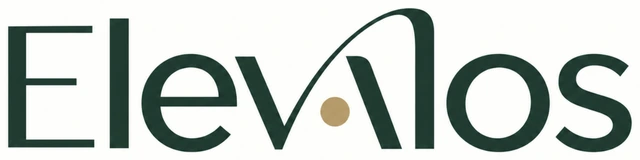
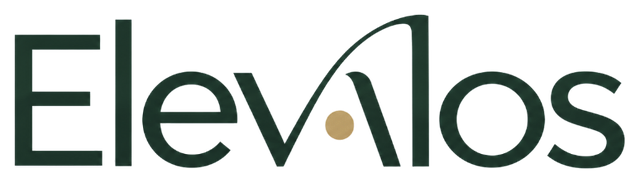
Use approved transparent ELEVALOS wordmark

Changed region(s): [[0.0, 0.0312, 0.75, 0.9688], [0.7188, 0.3125, 1.0, 0.9688], [0.25, 0.6562, 0.375, 0.6875]]

diff --git a/images/brand/elevalos-brand.css b/images/brand/elevalos-brand.css
@@ -9,8 +9,7 @@
   max-width: 100%;
   height: auto;
   object-fit: contain;
-  background: var(--elevalos-cream);
-  border-radius: 5px;
+  background: transparent;
 }
 .brand .elevalos-wordmark, .ops-brand .elevalos-wordmark {
   width: 176px;

diff --git a/scripts/build_brand_assets.py b/scripts/build_brand_assets.py
@@ -5,6 +5,35 @@ from pathlib import Path
 from PIL import Image
 
 
+def transparent_wordmark(image: Image.Image) -> Image.Image:
+    background = (254, 254, 251)
+    foregrounds = ((31, 59, 49), (185, 151, 88))
+    result = Image.new("RGBA", image.size)
+    pixels = []
+    for pixel in image.convert("RGB").getdata():
+        # Recover edge coverage against the original cream matte, not a white cutoff.
+        candidates = []
+        for foreground in foregrounds:
+            vector = tuple(bg - fg for bg, fg in zip(background, foreground))
+            alpha = max(0, min(1, sum((bg - value) * delta for bg, value, delta
+                                     in zip(background, pixel, vector))
+                               / sum(delta * delta for delta in vector)))
+            residual = sum((value - (bg - alpha * delta)) ** 2
+                           for value, bg, delta in zip(pixel, background, vector))
+            candidates.append((residual, alpha))
+        _, alpha = min(candidates)
+        if alpha < 0.045:
+            pixels.append((0, 0, 0, 0))
+        elif alpha > 0.96:
+            pixels.append((*pixel, 255))
+        else:
+            color = tuple(round(max(0, min(255, (value - (1 - alpha) * bg) / alpha)))
+                          for value, bg in zip(pixel, background))
+            pixels.append((*color, round(alpha * 255)))
+    result.putdata(pixels)
+    return result
+
+
 def build(source: Path, output: Path) -> None:
     output.mkdir(parents=True, exist_ok=True)
     wordmark = Image.open(source / "elevalos-wordmark-original.png").convert("RGB")
@@ -15,11 +44,12 @@ def build(source: Path, output: Path) -> None:
     wordmark = wordmark.crop((max(0, left - padding), max(0, top - padding),
                               min(wordmark.width, right + padding),
                               min(wordmark.height, bottom + padding)))
+    wordmark = transparent_wordmark(wordmark)
     for width in (320, 640):
         resized = wordmark.resize((width, round(width * wordmark.height / wordmark.width)),
                                   Image.Resampling.LANCZOS)
-        resized.quantize(colors=128).save(output / f"elevalos-wordmark-{width}.png", optimize=True)
-        resized.save(output / f"elevalos-wordmark-{width}.webp", quality=92, method=6)
+        resized.save(output / f"elevalos-wordmark-{width}.png", optimize=True)
+        resized.save(output / f"elevalos-wordmark-{width}.webp", lossless=True, method=6)
     anagram = Image.open(source / "elevalos-anagram-original.png").convert("RGB")
     mask = Image.eval(anagram.convert("L"), lambda value: 255 if value > 110 else 0)
     left, top, right, bottom = mask.getbbox()
@@ -35,7 +65,7 @@ def build(source: Path, output: Path) -> None:
         output / "favicon.ico", sizes=[(16, 16), (32, 32), (48, 48)])
     canvas = Image.new("RGB", (1200, 630), (254, 254, 251))
     wordmark.thumbnail((960, 320), Image.Resampling.LANCZOS)
-    canvas.paste(wordmark, ((1200 - wordmark.width) // 2, (630 - wordmark.height) // 2))
+    canvas.paste(wordmark, ((1200 - wordmark.width) // 2, (630 - wordmark.height) // 2), wordmark)
     canvas.quantize(colors=128).save(output / "elevalos-social.png", optimize=True)
 
 
